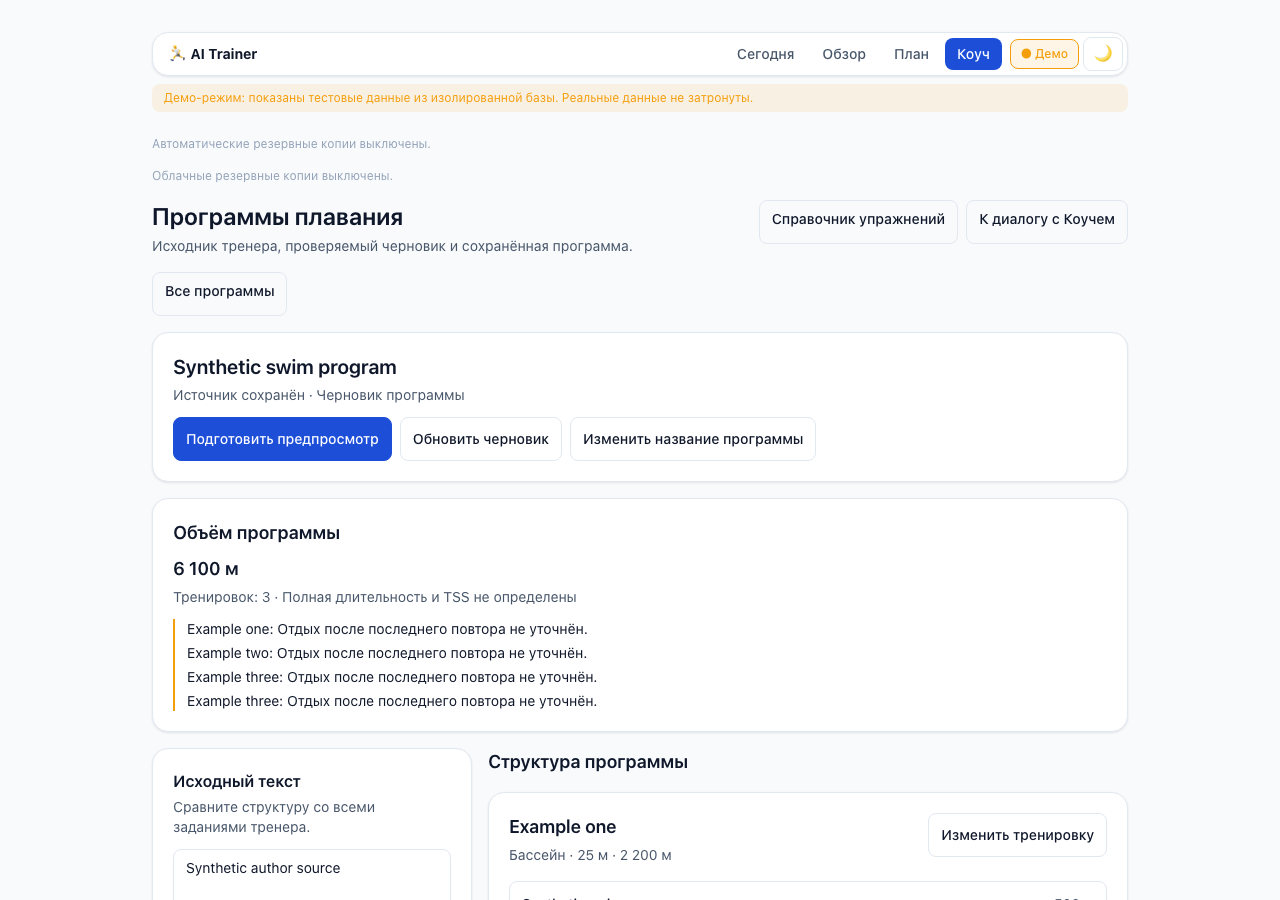
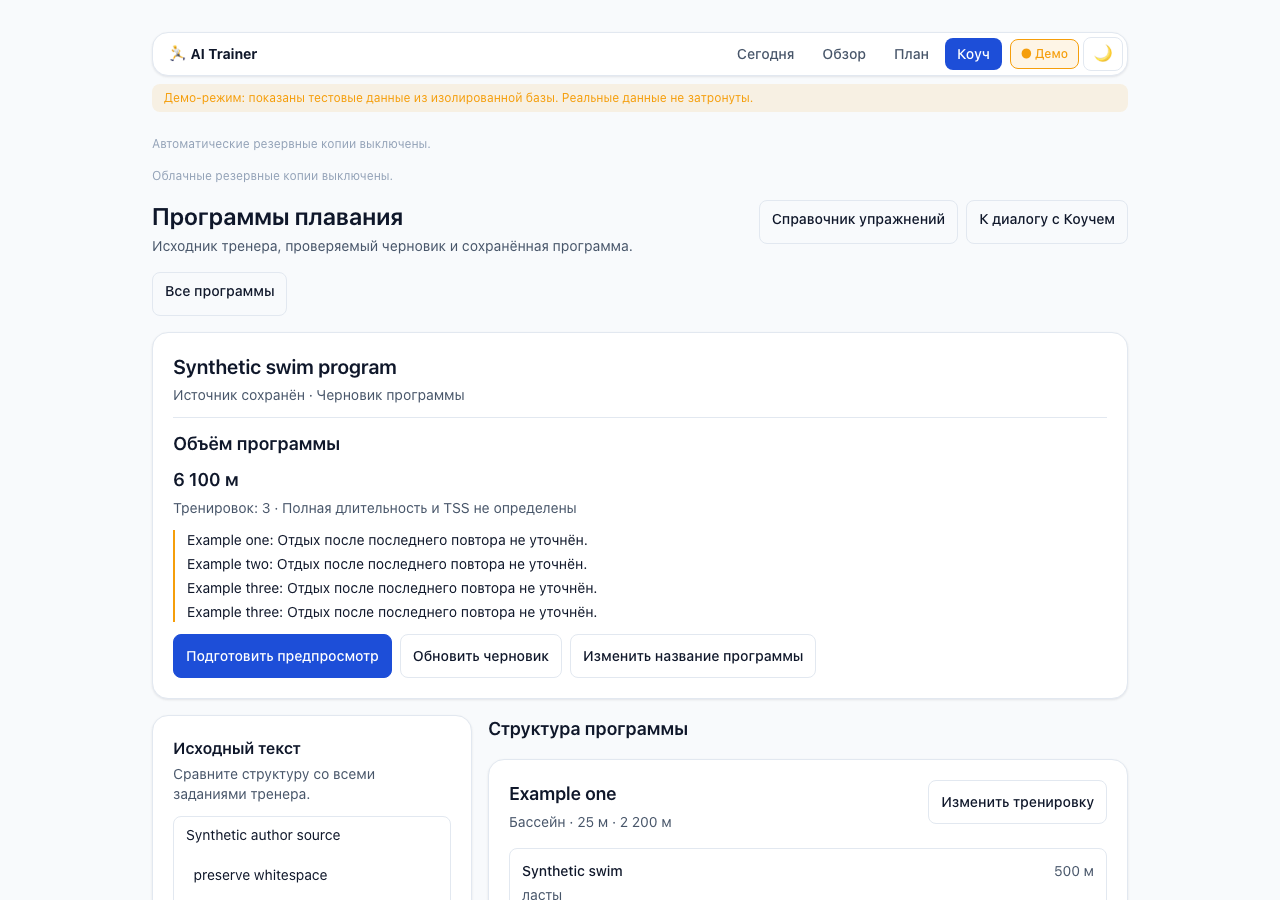
fix: keep swim summary visible and checksum evidence scannable

Changed region(s): [[0.125, 0.4356, 0.625, 1.0], [0.7188, 0.8711, 0.875, 0.9956]]

diff --git a/web/components/swim/DraftWorkspace.tsx b/web/components/swim/DraftWorkspace.tsx
@@ -87,6 +87,7 @@ export function DraftWorkspace({ draft, reload, onSaved, readError = false }: {
     <section className={panel} aria-label="Программа тренера">
       <h2 className="break-words text-xl font-semibold text-ink">{draft.document?.title || draft.source_week_label || draft.source_label || "Исходник тренера"}</h2>
       <p role="status" className="mt-1 text-sm text-ink-soft">Источник сохранён · {draft.document ? "Черновик программы" : "Структура ещё не разобрана"}</p>
+      {!preview && draft.document && draft.summary ? <ProgramSummary document={draft.document} summary={draft.summary} inline /> : null}
       <div className="mt-3 flex flex-wrap gap-2">
         <button type="button" className={primary} disabled={!editorReady || busy || needsRead || !draft.document || preview !== null || editing !== null || manualOpen} onClick={() => void prepare()}>Подготовить предпросмотр</button>
         <button type="button" className={button} disabled={busy} onClick={() => void refresh()}>Обновить черновик</button>
@@ -95,7 +96,6 @@ export function DraftWorkspace({ draft, reload, onSaved, readError = false }: {
       {busy ? <p role="status" className="mt-3 text-sm text-ink-soft">Ожидаем подтверждение сервера…</p> : null}
       {error ? <p role="alert" className="mt-3 text-sm border-l-2 border-tone-warning pl-3 text-ink">{error}</p> : null}
     </section>
-    {!preview && draft.document && draft.summary ? <ProgramSummary document={draft.document} summary={draft.summary} /> : null}
     {!draft.document ? <ManualStructure draft={draft} busy={busy || needsRead} onStart={() => { setBusy(true); setError(""); }} onWritten={refresh} onEnd={() => setBusy(false)} onOpenChange={setManualOpen} /> : null}
     {editing && draft.document ? <DraftEditor key={JSON.stringify(editing)} draft={draft} target={editing} busy={busy || needsRead} onStart={() => { setBusy(true); setPreview(null); setError(""); }} onWritten={refresh} onEnd={() => setBusy(false)} onClose={closeEditor} /> : null}
     {preview && preview.draft_revision === draft.revision ? <section className={`${panel} space-y-4`} aria-label="Предпросмотр сохранения">

diff --git a/web/components/swim/ProgramStructure.tsx b/web/components/swim/ProgramStructure.tsx
@@ -99,10 +99,11 @@ function Step({ node, source, bindings, onEdit, onAdd, disabled }: {
   </div>;
 }
 
-export function ProgramSummary({ document, summary }: { document: Document; summary: Summary }) {
+export function ProgramSummary({ document, summary, inline = false }: { document: Document; summary: Summary; inline?: boolean }) {
   const known = "known_distance_meters" in summary ? summary.known_distance_meters : summary.distance_meters;
-  return <section className={panel} aria-label="Объём программы">
-      <h2 className="text-lg font-semibold text-ink">Объём программы</h2>
+  const Heading = inline ? "h3" : "h2";
+  return <section className={inline ? "mt-3 border-t border-surface-border bg-surface pt-3" : panel} aria-label="Объём программы">
+      <Heading className="text-lg font-semibold text-ink">Объём программы</Heading>
       <p className="mt-2 text-lg font-semibold text-ink">{summary.distance_meters === null ? "Полная дистанция неизвестна" : metres(summary.distance_meters)}</p>
       {summary.distance_meters === null ? <p className="mt-1 text-sm text-ink-soft">Известная фиксированная часть: {metres(known)}</p> : null}
       <p className="mt-1 text-sm text-ink-soft">Тренировок: {document.workouts.length} · Полная длительность и TSS не определены</p>

diff --git a/tests/e2e/test_swim_visual_acceptance.py b/tests/e2e/test_swim_visual_acceptance.py
@@ -49,7 +49,7 @@ def test_program_geometry_primary_contrast_and_optional_synthetic_evidence(web_s
                 warning_colors = warning.evaluate("element => ({fg: getComputedStyle(element).color, bg: getComputedStyle(element.closest('section')).backgroundColor})")
                 assert contrast(warning_colors["fg"], warning_colors["bg"]) >= 4.5, (theme, warning_colors)
                 if width < 1024:
-                    expect(page.get_by_role("region", name="Объём программы").get_by_text(re.compile(r"6\s?100\s?м"), exact=True)).to_be_in_viewport()
+                    expect(page.get_by_role("region", name="Объём программы").get_by_text(re.compile(r"6\s?100\s?м"), exact=True), f"Program volume must be in first viewport: {theme}/{width}px").to_be_in_viewport()
                 if capture and width != 320:
                     folder = ROOT / "docs/design/evidence/issue-772"
                     folder.mkdir(parents=True, exist_ok=True)
@@ -59,7 +59,7 @@ def test_program_geometry_primary_contrast_and_optional_synthetic_evidence(web_s
                     records.append({"file": filename, "theme": theme, "viewport": {"width": width, "height": 900}, "colors": colors, "primary_contrast": round(contrast(colors["fg"], colors["bg"]), 3), "warning_contrast": round(contrast(warning_colors["fg"], warning_colors["bg"]), 3)})
         if capture:
             files = sorted((ROOT / "web/components/swim").glob("*.tsx")) + [ROOT / "web/components/swim/styles.ts", ROOT / "web/app/coach/swim/page.tsx", ROOT / "web/lib/swim-api.ts"]
-            hashes = {str(path.relative_to(ROOT)): hashlib.sha256(path.read_bytes()).hexdigest() for path in files}
+            hashes = [{"path": str(path.relative_to(ROOT)), "sha256": hashlib.sha256(path.read_bytes()).hexdigest()} for path in files]
             metadata = {"fixture": "exact_program_v2 anonymous synthetic", "captured_at": datetime.now(timezone.utc).isoformat(), "git_head": subprocess.check_output(["git", "rev-parse", "HEAD"], cwd=ROOT, text=True).strip(), "source_sha256": hashes, "screenshots": records, "limitations": "Real components/API/temp DB; no owner acceptance, screen-reader certification or live AI quality inference."}
             (ROOT / "docs/design/evidence/issue-772/metadata.json").write_text(json.dumps(metadata, ensure_ascii=False, indent=2) + "\n")
     finally:

diff --git a/docs/design/evidence/issue-772/README.md b/docs/design/evidence/issue-772/README.md
@@ -16,6 +16,12 @@
 время, HEAD на момент запуска и SHA256 каждого UI-файла: снимки сделаны на рабочем
 дереве, поэтому именно хеши файлов связывают их с проверяемой реализацией.
 
+Контрольные суммы хранятся как записи `path`/`sha256`, чтобы имя исходного файла
+не выглядело названием поля с API-ключом. В коммите d840b49 прежняя строка24
+сработала на generic-api-key; её значение независимо пересчитано по исходному
+файлу версии097daef и совпало. Исключение сканера закреплено только за этой
+исторической строкой/коммитом, без исключения текущего файла или каталога.
+
 В браузере проверены переход из Коуча, сохранение точного исходника до AI,
 несколько тренировок, уточнение/одна правка, ручные формы, прямые правки,
 предпросмотр всей программы, явное подтверждение и повторное открытие версии.

diff --git a/docs/swim_coach_import_execplan.md b/docs/swim_coach_import_execplan.md
@@ -281,3 +281,18 @@ current state. Browser input buffers are not preview/save authority.18.11.2026.
 Revision18.11.2026: M2D implemented in draft PR774,19browser cases, responsive
 synthetic evidence and own failure reproductions recorded. Preserve the separate
 local-cleanup/CI/native/owner and live-model boundaries; no runtime/personal rollout.
+
+CI d840b49: contributor-safe Python and contract jobs passed. Browser job ran
+150PASS/1FAIL: the strict first-viewport volume assertion failed; its old message
+did not identify the active narrow width, so no platform/font cause is asserted.
+Move the server summary before actions within the program card and retain the
+strict390/320 assertion, now labelled with theme/width. Fresh isolated19case run:
+19PASS61.63s, clean teardown; Node22 lint/build and Ruff passed.
+
+Gitleaks at d840b49 flagged metadata.json line24. Verified by recomputing the
+immutable097daef source blob: the value is that file's SHA256. Replace filename-
+keyed checksum metadata with path/sha256 records and allow only the exact
+historical commit/line fingerprint. No current-file/directory exception. Security
+regressions first2FAIL/6PASS, then security+contract106PASS11.08s. Regenerated
+synthetic screenshots match all19 current UI source hashes. Current-head CI and
+native review remain pending; these checks do not imply owner/live-model acceptance.
